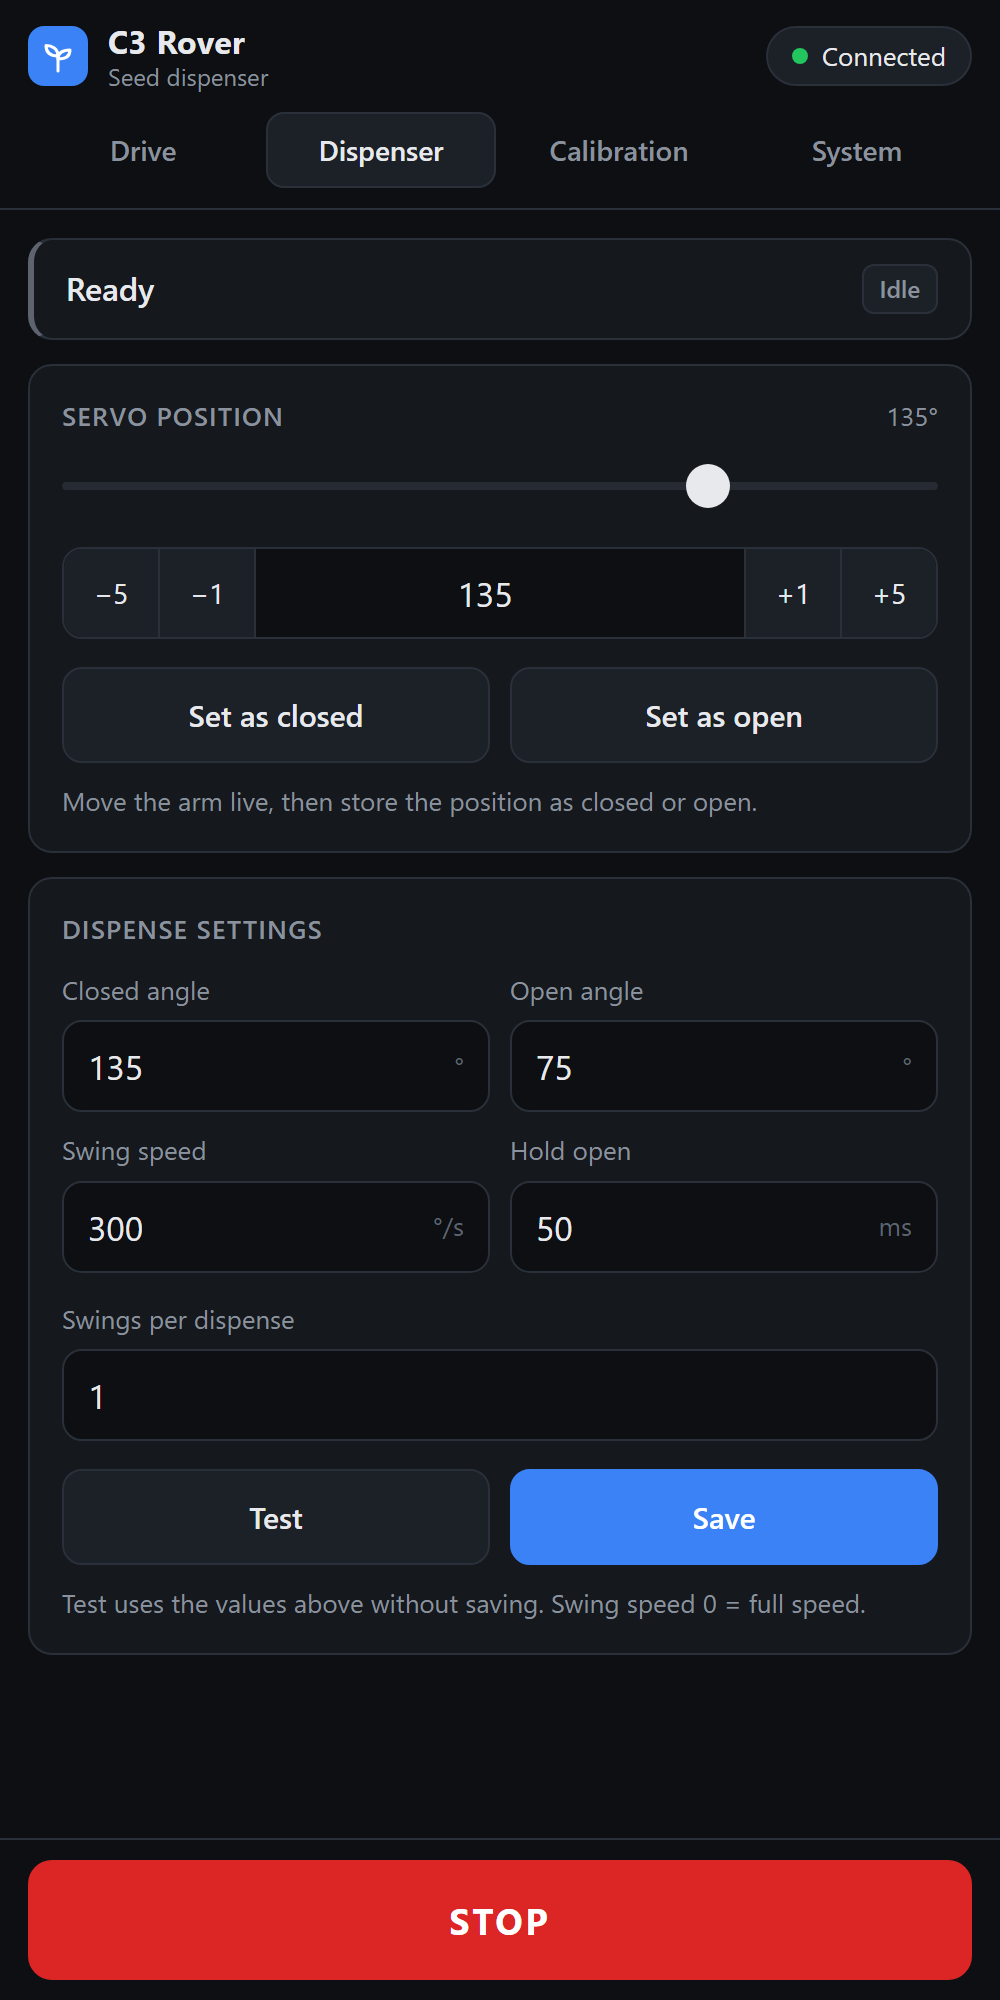
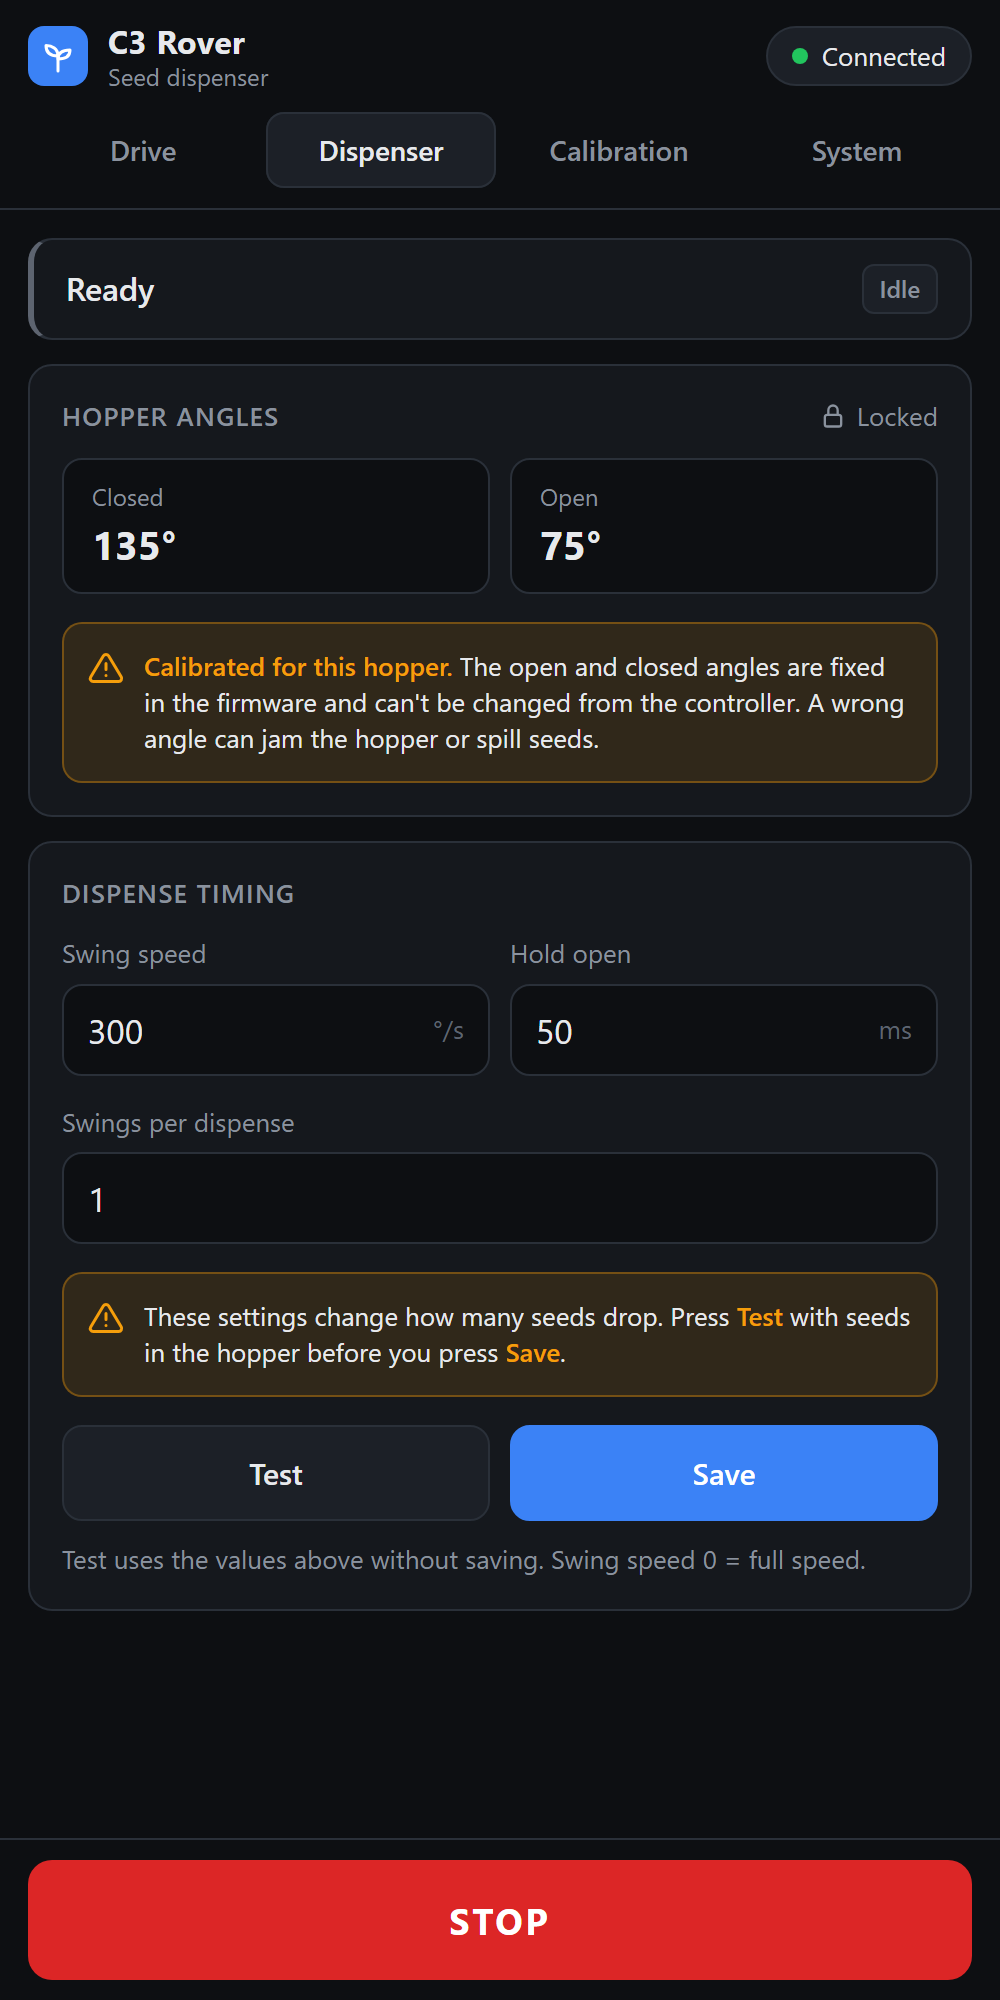
Lock hopper servo angles; Dispenser tab tunes timing only
The open/closed angles are now constants in the firmware (135/75) and
can't be changed from the controller: the live-angle control and
/servo/set are removed, and /servo/save and /servo/test only accept
swing speed, hold time and swings. The Dispenser tab shows the locked
angles read-only with a caution box, and Save asks for confirmation.

diff --git a/README.md b/README.md
@@ -27,7 +27,9 @@ An **MPU6050** gyro gives accurate 90° turns, keeps the rover driving straight,
 **Seed dispensing**
 - **Dispense once**, or **continuous dispense** at a set interval while driving
 - Adjustable swing speed, cycles per drop, and interval
-- Servo calibration page: move the arm live, store the closed and open angles, test, and save
+- Hopper angles are locked in the firmware (closed 135°, open 75°), so the dispenser can't be mis-set from the controller
+- Dispense timing (swing speed, hold time, swings) can be tested before saving, and Save asks for confirmation
+- The Drive tab always uses the saved dispense settings
 - Counts completed dispense cycles since power-on
 
 **Navigation and calibration**
@@ -137,7 +139,7 @@ espota.exe -i 192.168.4.1 -p 3232 --auth=12345678 -f C3_Seed_Rover.ino.bin -r
 | Tab | What it does |
 |---|---|
 | **Drive** | Joystick, speed limit, heading, tilt, motor output, dispense once / continuous |
-| **Dispenser** | Servo calibration: live angle, closed and open angles, swing speed, hold time, swings per drop |
+| **Dispenser** | Locked hopper angles (read-only), and dispense timing: swing speed, hold time, swings per drop |
 | **Calibration** | Square-path timing, gyro turns, hold straight, turn angle, gyro recalibration |
 | **System** | Uptime, last reset reason, memory, gyro status, event log, diagnostics |
 
@@ -173,9 +175,8 @@ ESP32-C3 main loop (non-blocking, millis() state machines)
 | `/joy?x=&y=&s=` | Joystick fallback (x, y −100…100, s = speed %) |
 | `/disp?sp=&n=` | Dispense once (swing speed °/s, cycles) |
 | `/cont?on=&sp=&n=&i=` | Continuous dispense on/off (i = interval ms) |
-| `/servo/set?a=` | Move the servo to an angle (calibration) |
-| `/servo/test?c=&o=&sp=&h=&n=` | Test dispense with the given values (not saved) |
-| `/servo/save?c=&o=&sp=&h=&n=` | Save servo settings |
+| `/servo/test?sp=&h=&n=` | Test dispense with the given timing (not saved) |
+| `/servo/save?sp=&h=&n=` | Save dispense timing (the angles are locked) |
 | `/test?turn=` | Test a right turn |
 | `/square` | Run the square path |
 | `/save?fwd=&turn=&ta=&tt=&gy=&hh=` | Save the square and gyro settings |

diff --git a/docs/calibration.md b/docs/calibration.md
@@ -37,12 +37,17 @@ Do these steps in order after the first upload. Every value is saved on the rove
 
 ## 5. Seed hopper (Dispenser tab)
 
-1. Drag the **servo position** slider until the hopper is fully closed. Press **Set as closed**.
-2. Move it until seeds fall freely. Press **Set as open**.
-3. Set **Swing speed** (°/s, 0 = full speed), **Hold open** (ms) and **Swings per dispense**.
-4. Press **Test** with some seeds in the hopper, adjust, then press **Save**.
+The hopper angles are **locked in the firmware** at closed **135°** and open **75°**. They're calibrated for this dispenser mechanism, and the controller can't change them. A wrong angle can jam the hopper or spill seeds.
 
-Firmware defaults: closed 135°, open 75°, 200 °/s, 100 ms hold, 1 swing.
+If the mechanism is ever rebuilt, change `servoClosed` and `servoOpen` near the top of `C3_Seed_Rover.ino`, test carefully, and upload again.
+
+On the Dispenser tab you can tune the timing only:
+
+1. Set **Swing speed** (°/s, 0 = full speed), **Hold open** (ms) and **Swings per dispense**.
+2. Press **Test** with some seeds in the hopper. Test uses the values on screen without saving them.
+3. Press **Save** and confirm. The Drive tab uses the new values straight away.
+
+Firmware defaults: 200 °/s, 100 ms hold, 1 swing.
 
 ## 6. Continuous dispense
 
